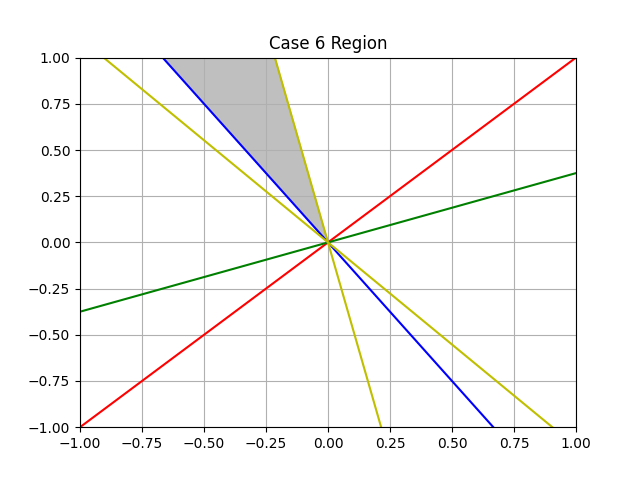
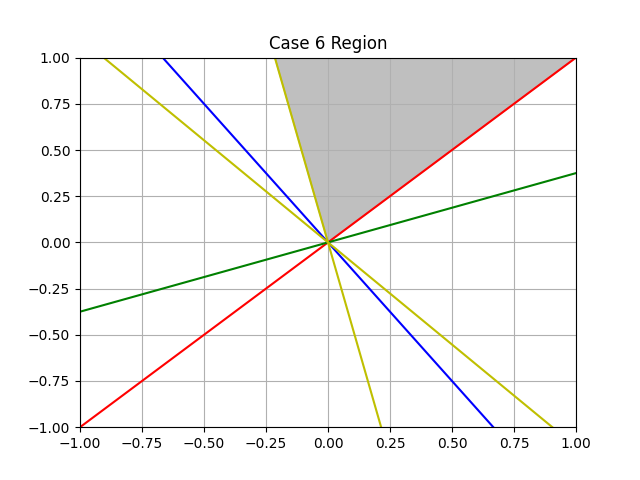
pics

Changed region(s): [[0.25, 0.125, 0.9062, 0.5]]

diff --git a/ml_linear_layers/project.py b/ml_linear_layers/project.py
@@ -81,7 +81,7 @@ for case in results:
 # e)
 # Cases: 
 # Case 1 -> -3*x1 + 3*x2 > 0 , 12*z1 - 12*x2 > 0
-#			x2 > x1              y < x1
+#			x2 > x1              x2 < x1
 # Case 2 -> -18*x1 + 43*x2 > 0 and 9*x1 - 4*x2 > 0 
 #            x2 > (18/43)*x1       x2 < (9/4)*x1
 # Case 3 -> -15*x1 + 40*x2 > 0 and -3*x1 + 8*x2 > 0
@@ -89,9 +89,9 @@ for case in results:
 # Case 4 -> 9*x1 + 56*x2 > 0 and 27*x1 + 28*x2 > 0
 #           x2 > (-9/56)*x1      x2 > (-27/28)*x1
 # Case 5 -> 24*x1 + 16*x2 > 0 and 30*z1 + 20*x2 > 0
-#           x2 > (-9/56)*x1       x2 > (-30/20)*x1
+#           x2 > (-24/16)*x1       x2 > (-30/20)*x1
 # Case 6 -> 21*x1 + 19*x2 > 0 and 42*z1 + 8*x2 > 0
-#           x2 > (-21/19)*x1      x2 > (-21/19)*x1 
+#           x2 > (-21/19)*x1      x2 > (-42/8)*x1 
 #
 # The ramp operation is what the case depends on because for each case, the 
 # vector (y1, y2, y3) output by the ramp function is different, consequently affecting
@@ -118,12 +118,12 @@ def graph_util(z1, z2):
 
 # Case 1
 # 6*x1 + 59*x2 > 0 and 39*x1 + 16*x2 > 0
-# x2 > (6/59)*x1
+# x2 > x1
 z1 = x
-# x2 > (-39/16)*x1
+# x2 < x1
 z2 = x
 graph_util(z1, z2)
-plt.fill_between(x, z1, z1, where = x > 0, color = 'grey', alpha = 0.5) 
+# No region
 plt.title('Case 1 Region')
 plt.savefig('images/case_1_region.png')
 
@@ -134,7 +134,7 @@ z1 = (18/43)*x
 # x2 < (9/4)*x1
 z2 = (9/4)*x
 graph_util(z1, z2)
-plt.fill_between(x, z1, y1, where = x < 0, color = 'grey', alpha = 0.5) 
+# No region
 plt.title('Case 2 Region')
 plt.savefig('images/case_2_region.png')
 
@@ -145,7 +145,7 @@ z1 = (15/40)*x
 # x2 > (3/8)*x1
 z2 = (3/8)*x
 graph_util(z1, z2)
-plt.fill_between(x, z1, z2, color = 'grey', alpha = 0.5) 
+# No region
 plt.title('Case 3 Region')
 plt.savefig('images/case_3_region.png')
 
@@ -156,7 +156,7 @@ z1 = (-9/56)*x
 # x2 > (-27/28)*x1
 z2 = (-27/28)*x
 graph_util(z1, z2)
-plt.fill_between(x, z1, z2, where = x > 0, color = 'grey', alpha = 0.5) 
+plt.fill_between(x, z1, y2, where = x > 0, color = 'grey', alpha = 0.5) 
 plt.title('Case 4 Region')
 plt.savefig('images/case_4_region.png')
 
@@ -167,7 +167,7 @@ z1 = (-24/16)*x
 # x2 > (-30/20)*x1
 z2 = (-30/20)*x
 graph_util(z1, z2)
-plt.fill_between(x, z1, z2, color = 'grey', alpha = 0.5) 
+plt.fill_between(x, y1, y2, where = x > 0, color = 'grey', alpha = 0.5) 
 plt.title('Case 5 Region')
 plt.savefig('images/case_5_region.png')
 
@@ -178,7 +178,8 @@ z1 = (-21/19)*x
 # x2 > (-42/8)*x1
 z2 = (-42/9)*x
 graph_util(z1, z2)
-plt.fill_between(x, y3, z2, where = x < 0, color = 'grey', alpha = 0.5) 
+Z1 = np.maximum(y1, z2)
+plt.fill_between(x, Z1, np.max(x), color = 'grey', alpha = 0.5) 
 plt.title('Case 6 Region')
 plt.savefig('images/case_6_region.png')
 
@@ -199,7 +200,6 @@ plt.fill_between(x, z1, z1, where = x < 0, color = 'grey', alpha = 0.5)
 # Case 2
 z1 = (18/43)*x
 z2 = (9/4)*x
-plt.fill_between(x, z1, y1, where = x < 0, color = 'grey', alpha = 0.5) 
 # Case 3
 z1 = (15/40)*x
 z2 = (3/8)*x
@@ -207,15 +207,16 @@ plt.fill_between(x, z1, z2, color = 'grey', alpha = 0.5)
 # Case 4
 z1 = (-9/56)*x
 z2 = (-27/28)*x
-plt.fill_between(x, z1, z2, where = x > 0, color = 'grey', alpha = 0.5) 
+plt.fill_between(x, z1, y2, where = x > 0, color = 'grey', alpha = 0.5) 
 # Case 5
 z1 = (-24/16)*x
 z2 = (-30/20)*x
-plt.fill_between(x, z1, z2, color = 'grey', alpha = 0.5) 
+plt.fill_between(x, y1, y2, where = x > 0, color = 'grey', alpha = 0.5) 
 # Case 6
 z1 = (-21/19)*x
 z2 = (-42/9)*x
-plt.fill_between(x, y3, z2, where = x < 0, color = 'grey', alpha = 0.5) 
+Z1 = np.maximum(y1, z2)
+plt.fill_between(x, Z1, np.max(x), color = 'grey', alpha = 0.5) 
 plt.title('Combined Graphic')
 plt.savefig('images/combined_graphic.png')
 
